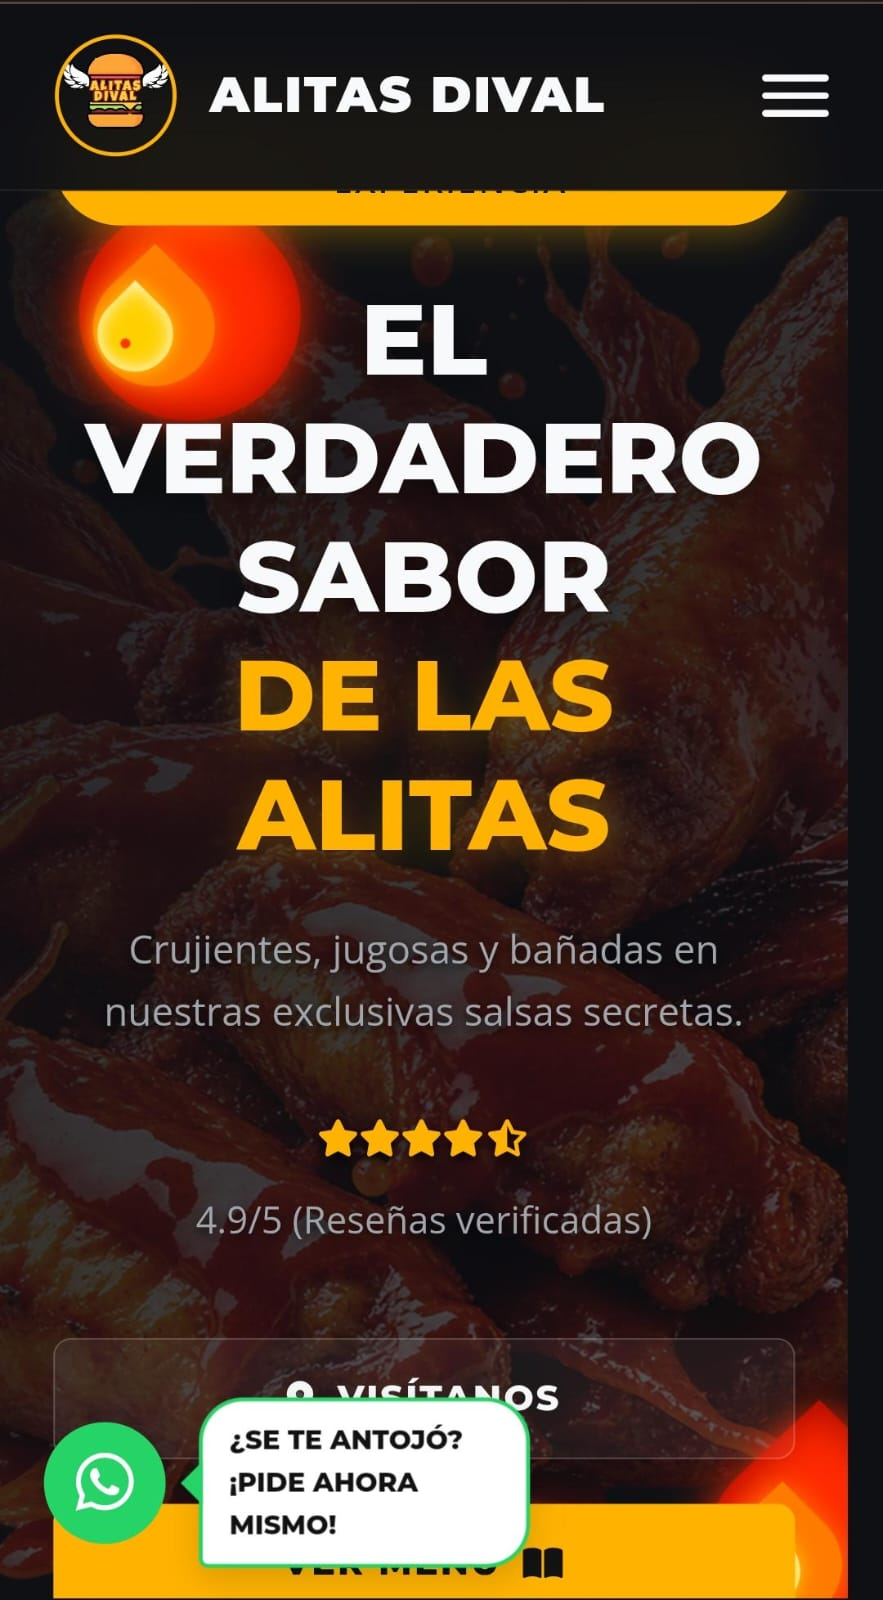
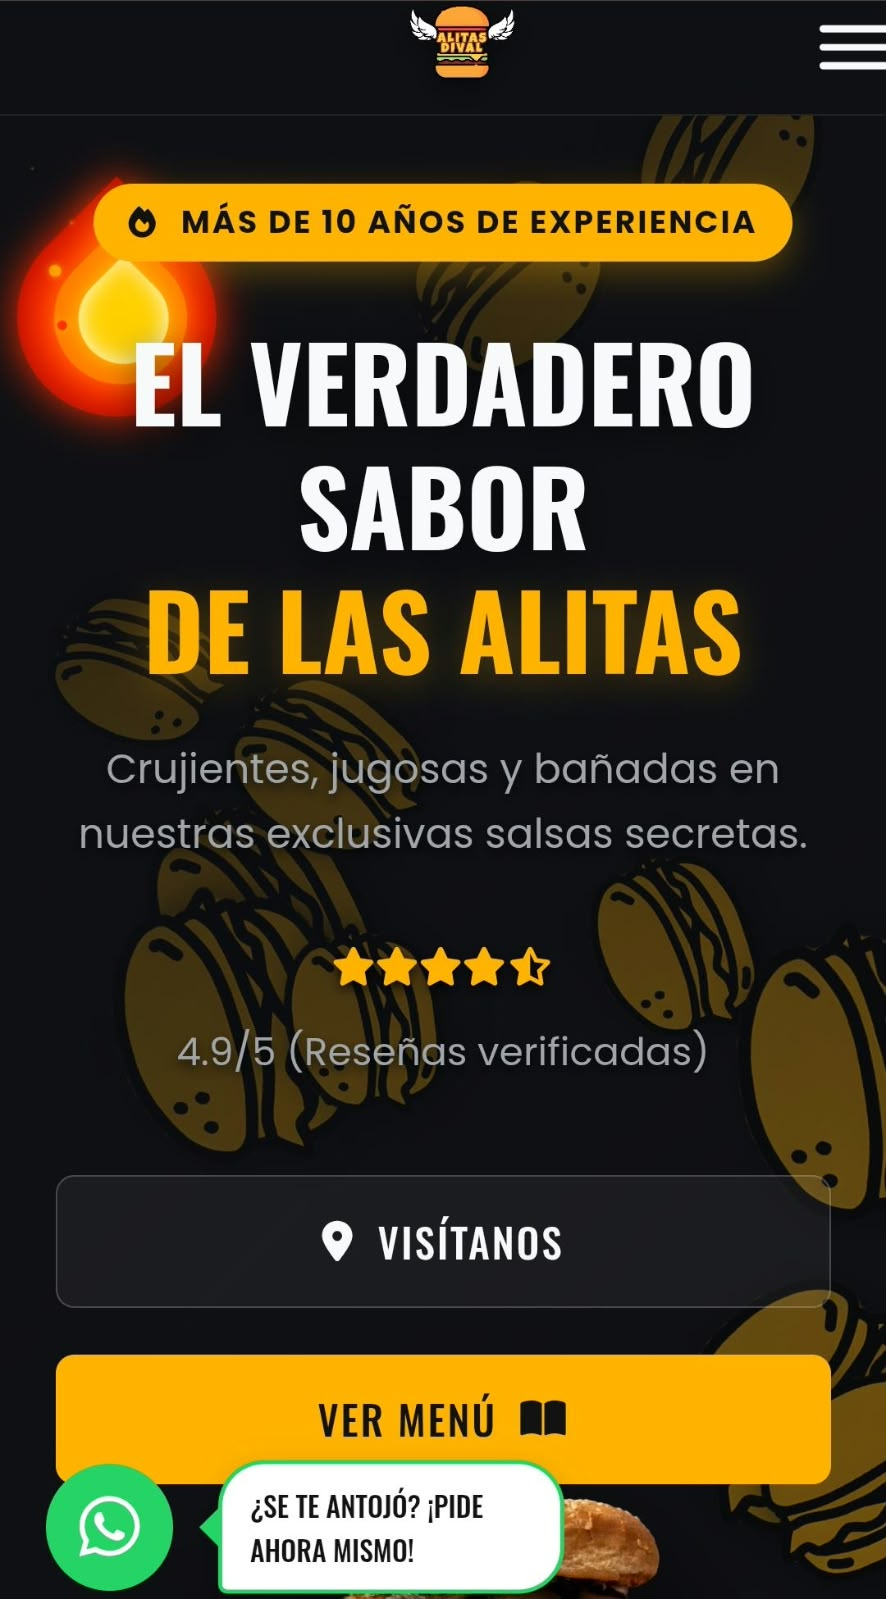
mejora mockups

diff --git a/privacidad.html b/privacidad.html
@@ -115,7 +115,8 @@
                 </ul>
                 <p>En caso de que no desee que sus datos personales se utilicen para estos fines secundarios, puede
                     comunicarlo desde este momento enviando un correo electrónico a:
-                    <strong>contactosdetech@gmail.com</strong>.</p>
+                    <strong>contactosdetech@gmail.com</strong>.
+                </p>
 
                 <h2>2. ¿Qué datos personales utilizaremos para estos fines?</h2>
                 <p>Para llevar a cabo las finalidades descritas en el presente aviso de privacidad, utilizaremos los
